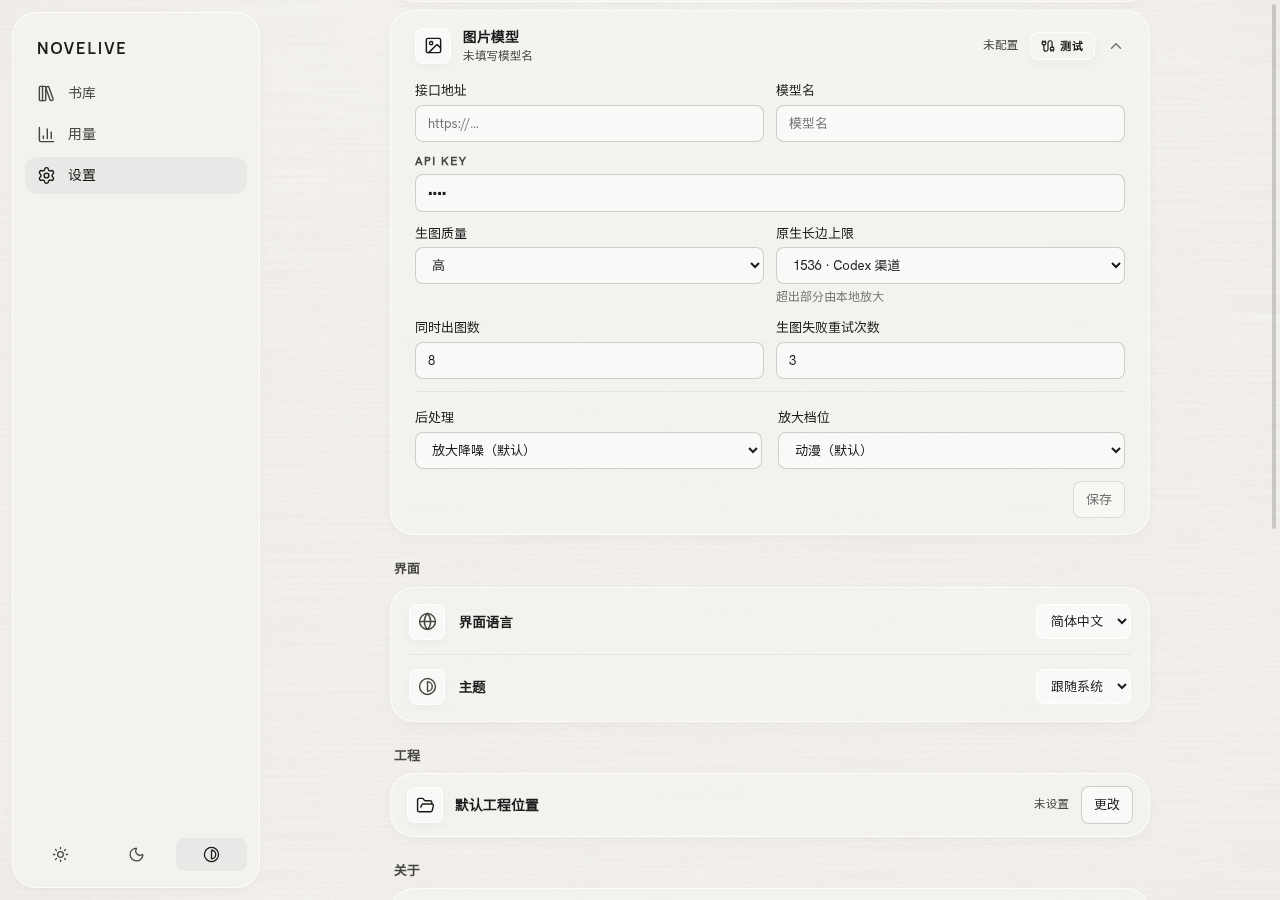
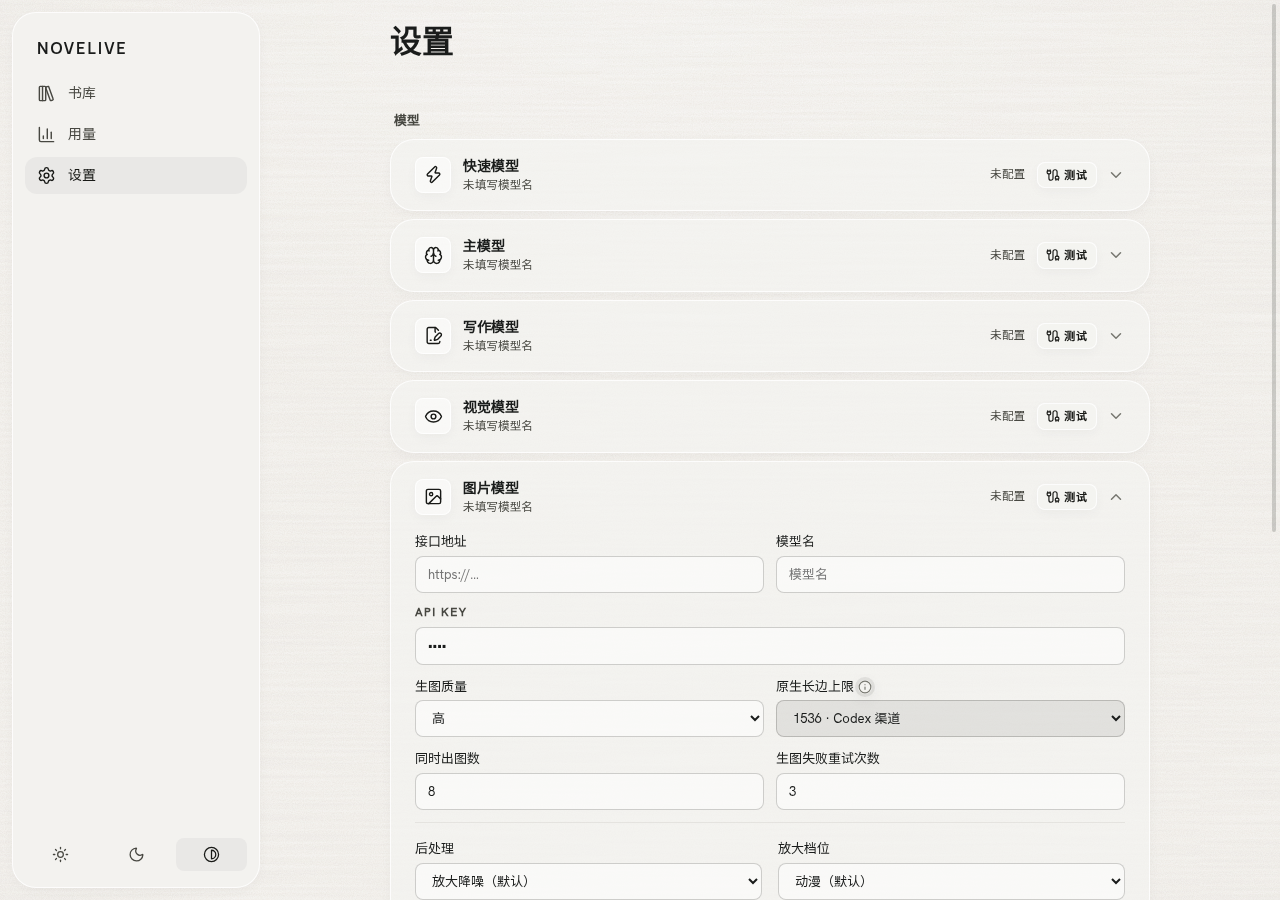
Put image field explanations behind info prompts

diff --git a/packages/ui/src/pages/settings/ModelFields.tsx b/packages/ui/src/pages/settings/ModelFields.tsx
@@ -3,7 +3,8 @@ import type {
 	MaskedConfig,
 	TextSlot,
 } from '@novelive/creator/contract'
-import { useRef, useState } from 'react'
+import { Info } from 'lucide-react'
+import { useId, useRef, useState } from 'react'
 import styles from './SettingsPage.module.css'
 
 type Models = MaskedConfig['models']
@@ -46,19 +47,16 @@ export function Select<T extends string | number>({
 	value,
 	onChange,
 	disabled,
-	describedBy,
 }: {
 	label: string
 	options: ReadonlyArray<readonly [T, string, ...string[]]>
 	value: T
 	onChange(value: T): void
 	disabled?: boolean
-	describedBy?: string
 }) {
 	return (
 		<select
 			aria-label={label}
-			aria-describedby={describedBy}
 			value={value}
 			disabled={disabled}
 			onChange={(event) => {
@@ -74,6 +72,25 @@ export function Select<T extends string | number>({
 				</option>
 			))}
 		</select>
+	)
+}
+
+function FieldInfo({ label, text }: { label: string; text: string }) {
+	const id = useId()
+	return (
+		<>
+			<button
+				aria-label={`${label}说明`}
+				className={styles.infoButton}
+				popoverTarget={id}
+				type="button"
+			>
+				<Info aria-hidden="true" size={14} />
+			</button>
+			<span className={styles.infoPrompt} id={id} popover="auto">
+				{text}
+			</span>
+		</>
 	)
 }
 
@@ -341,10 +358,12 @@ export function useImageFields(
 					/>
 				</div>
 				<div className={styles.field}>
-					<span>原生长边上限</span>
+					<span className={styles.fieldLabel}>
+						原生长边上限
+						<FieldInfo label="原生长边上限" text="超出部分由本地放大" />
+					</span>
 					<Select
 						label="原生长边上限"
-						describedBy="native-max-edge-hint"
 						value={draft.nativeMaxEdge}
 						options={[
 							[1536, '1536 · Codex 渠道'],
@@ -355,9 +374,6 @@ export function useImageFields(
 						]}
 						onChange={(nativeMaxEdge) => change({ nativeMaxEdge })}
 					/>
-					<small id="native-max-edge-hint" className={styles.fieldHint}>
-						超出部分由本地放大
-					</small>
 				</div>
 				<Input
 					label="同时出图数"
@@ -386,7 +402,19 @@ export function useImageFields(
 						/>
 					</div>
 					<div className={styles.field}>
-						<span>放大档位</span>
+						<span className={styles.fieldLabel}>
+							放大档位
+							{draft.upscaleTier !== 'anime' && (
+								<FieldInfo
+									label="放大档位"
+									text={
+										draft.upscaleTier === 'fast'
+											? '低性能机用，画质下降'
+											: '少改原画，保留纹理细节'
+									}
+								/>
+							)}
+						</span>
 						<Select
 							label="放大档位"
 							value={draft.upscaleTier}
@@ -398,13 +426,6 @@ export function useImageFields(
 							]}
 							onChange={(upscaleTier) => change({ upscaleTier })}
 						/>
-						{draft.upscaleTier !== 'anime' && (
-							<small className={styles.fieldHint}>
-								{draft.upscaleTier === 'fast'
-									? '低性能机用，画质下降'
-									: '少改原画，保留纹理细节'}
-							</small>
-						)}
 					</div>
 				</div>
 			</>

diff --git a/tests/e2e/m0-settings.spec.ts b/tests/e2e/m0-settings.spec.ts
@@ -206,15 +206,27 @@ test('M0 settings shows recorded image capabilities and loads their protocol thu
 			const image = card(page, '图片模型')
 			const smoke = imageSmokeConfig(baseUrl, placeholder)
 			await image.getByRole('button', { name: '图片模型' }).click()
+			const sizeHint = image.getByText('超出部分由本地放大', { exact: true })
+			await expect(sizeHint).toBeHidden()
+			await image.getByRole('button', { name: '原生长边上限说明' }).click()
+			await expect(sizeHint).toBeVisible()
+			await page.keyboard.press('Escape')
+			await expect(sizeHint).toBeHidden()
+			const tier = image.getByLabel('放大档位', { exact: true })
+			await tier.selectOption('fast')
+			await image.getByRole('button', { name: '放大档位说明' }).click()
+			await expect(image.getByText('低性能机用，画质下降')).toBeVisible()
+			await page.keyboard.press('Escape')
+			await tier.selectOption('anime')
 			await image.getByLabel('接口地址').fill(smoke.baseUrl)
 			await image.getByLabel('模型名').fill(smoke.model)
 			await image.getByLabel('API Key').fill(smoke.apiKey)
 			await image.getByLabel('生图质量').selectOption(smoke.quality)
 			await image
-				.getByLabel('原生长边上限')
+				.getByLabel('原生长边上限', { exact: true })
 				.selectOption(String(smoke.nativeMaxEdge))
 			await image.getByLabel('后处理').selectOption('off')
-			await expect(image.getByLabel('放大档位')).toBeDisabled()
+			await expect(tier).toBeDisabled()
 			await testButton(image).click()
 			await expect(image.getByRole('status')).toHaveText('连接成功')
 			for (const capability of ['文生图', '透明底', '图片编辑']) {

diff --git a/packages/ui/src/pages/settings/SettingsPage.module.css b/packages/ui/src/pages/settings/SettingsPage.module.css
@@ -81,6 +81,13 @@
 	letter-spacing: 0.08em;
 }
 
+.page button.infoButton:not(.expand) {
+	padding: 0;
+	border: none;
+	background: transparent;
+	color: var(--color-outline);
+}
+
 .page button:disabled,
 .page select:disabled,
 .page input:disabled {
@@ -219,8 +226,24 @@
 	text-transform: uppercase;
 }
 
-.fieldHint {
-	color: var(--color-outline);
+.fieldLabel {
+	display: flex;
+	align-items: center;
+	gap: var(--space-1);
+}
+
+.infoPrompt {
+	position-area: block-start;
+	position-try-fallbacks: flip-block;
+	width: max-content;
+	max-width: calc(100vw - var(--space-5));
+	margin: var(--space-1);
+	padding: var(--space-1) var(--space-2);
+	border: none;
+	border-radius: var(--radius-md);
+	background: var(--color-primary);
+	box-shadow: var(--shadow-pop);
+	color: var(--color-on-primary);
 	font-size: 12px;
 }
 

diff --git a/.workflow/evidence/m0/gate/11-prototype-comparison.md b/.workflow/evidence/m0/gate/11-prototype-comparison.md
@@ -38,3 +38,8 @@ recapturing the comparison. The fixes use the prototype source and DESIGN.md.
 The follow-up check verified the visible control order, pointer expansion via
 the chevron, the native-size hint, the language and theme options, and all
 four same-viewport screenshot pairs.
+
+DESIGN.md takes precedence over the prototype's inline hints: both the
+native-size explanation and the conditional upscale-tier explanation now
+appear only after opening their ⓘ prompts. The wording is unchanged.
+[App with the native-size prompt open](11-w5-app-image-info.png).
